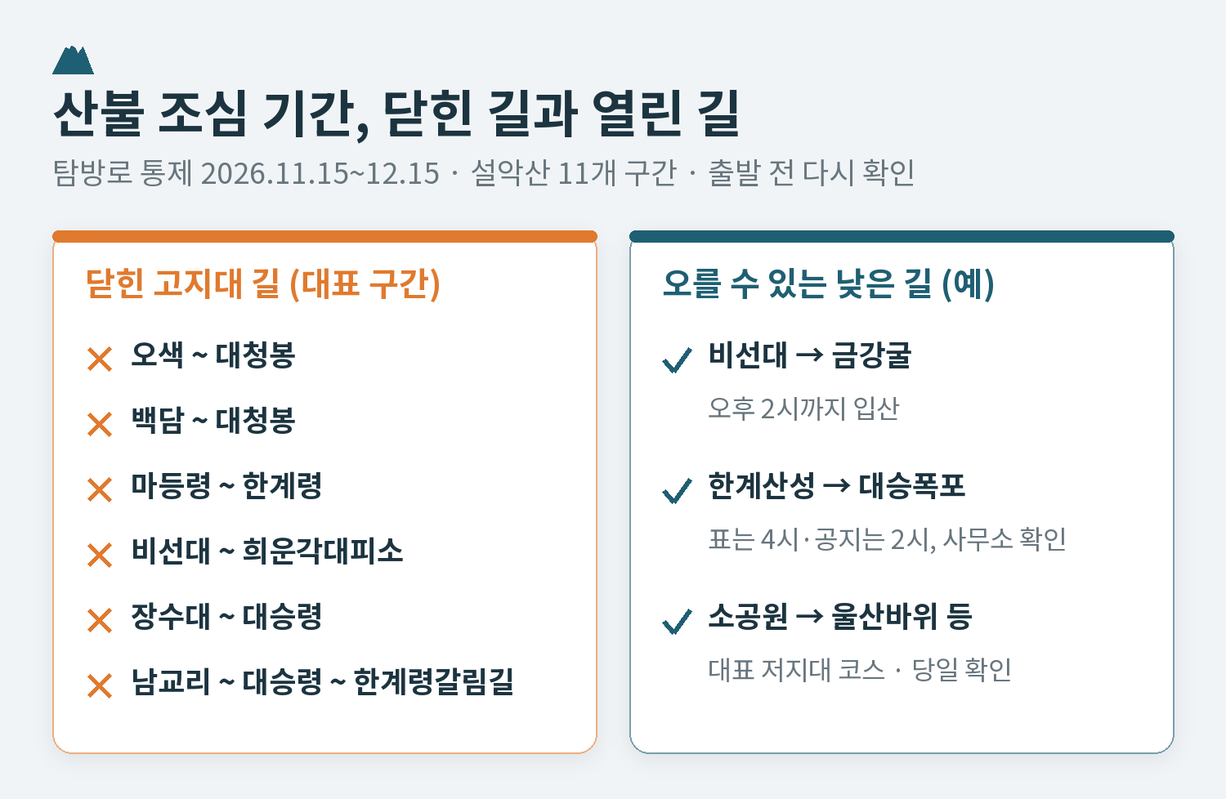
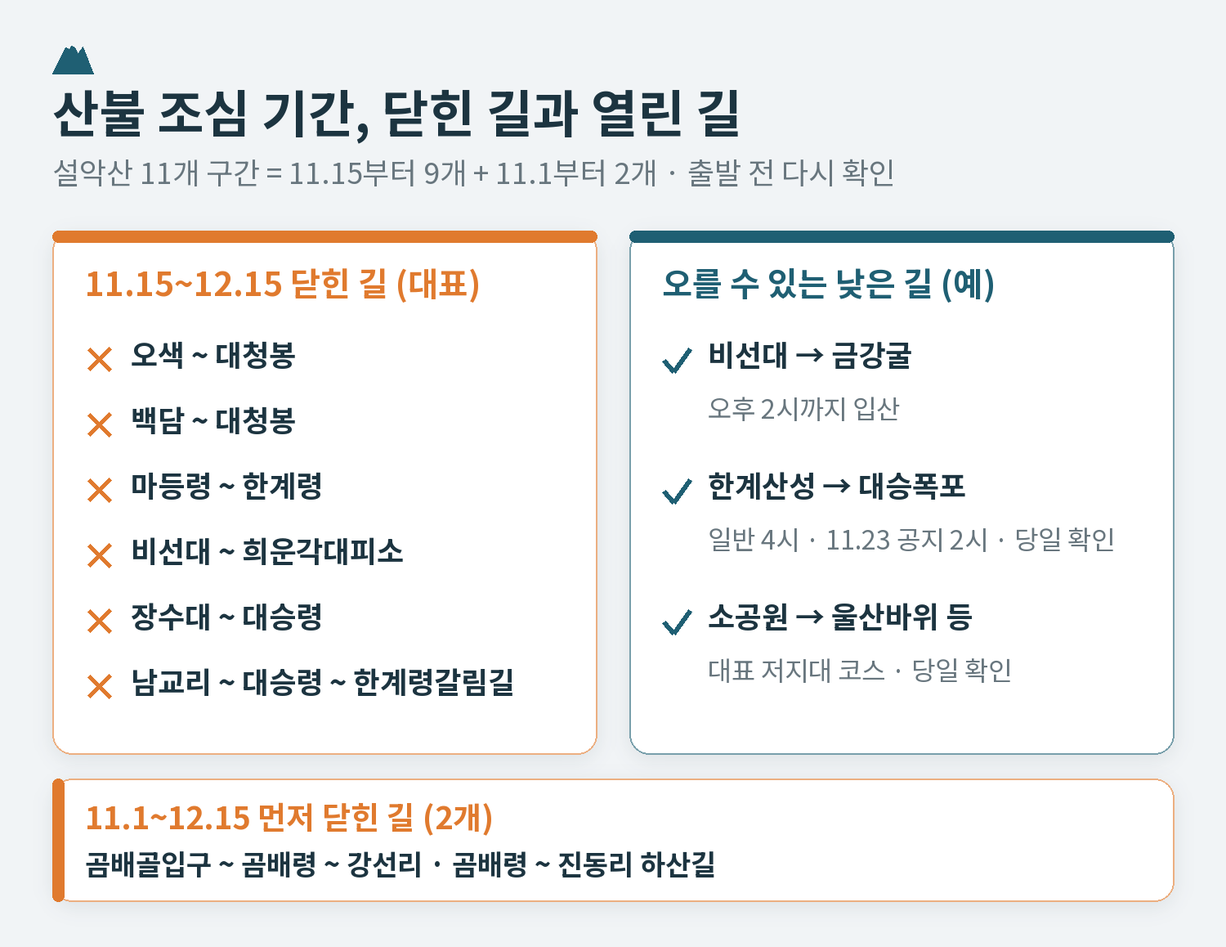
네이버 「라즈베리파이 사기 전에」 작성·이미지 적용, 겨울 설악산 2차 검수 반영

diff --git a/문서/네이버-코딩가이드/20261124_라즈베리파이-사기-전에/index.html b/문서/네이버-코딩가이드/20261124_라즈베리파이-사기-전에/index.html
@@ -1,0 +1,121 @@
+<meta charset="utf-8">
+<!--
+[발행 메모]
+블로그: 네이버 코딩가이드
+카테고리: 아두이노·라즈베리파이
+글 제목: 라즈베리파이 사기 전에, 어떤 모델에 무엇을 같이 살까?
+태그: #라즈베리파이 #라즈베리파이5 #라즈베리파이구매 #라즈베리파이전원 #라즈베리파이피코 #라즈베리파이제로 #microSD #코딩교육 #리눅스 #아두이노라즈베리파이
+검색 설명: 라즈베리파이는 모델마다 쓰임과 따로 사야 할 준비물이 다릅니다. 라즈베리파이 5·4·Zero 2 W·키보드형·피코의 차이, 메모리 고르는 법, 모델별 전원(27W·15W)·화면 케이블·microSD 용량을 공식 문서 기준으로 정리했습니다.
+글자 수: 본문 공백 포함 2,048자 / 공백 제외 1,612자 (빨간 글씨 이미지 표시·줄바꿈 제외, 2026.11.24)
+계기: 사용자가 '라즈베리파이'를 소재로 요청, 제안 A안. 11/23 「마이크로비트 사기 전에 알 7가지」와 짝이 되는 구매 전 안내 글.
+
+[이미지 순서]
+디자인: 아주 연한 라즈베리 분홍 바탕(#fbf1f4) · 짙은 자주(#7a1f45) 글자·강조 · 보조 잎 초록(#3d8a5a) · 흰 카드와 부드러운 그림자, 머리에 작은 라즈베리 열매 아이콘(점 묶음). 형식은 종류 지도(가로)·준비물 실사(3:2)·모델별 준비물 표(가로)·고르는 순서(세로 갈림길).
+- 01-타이틀.png (ChatGPT, 1080×1080) — 표지
+- 02-라즈베리파이-종류.png (AI, 가로) — 다섯 갈래 모델이 어떻게 다른지 한눈에
+- 03-같이-살-준비물.png (ChatGPT 실사 + 이름표, 3:2) — 보드 말고 따로 사야 하는 것이 어떻게 생겼는지
+- 04-모델별-준비물.png (AI, 가로 표) — 모델마다 전원·화면 케이블·저장 장치가 어떻게 다른지
+- 05-나에게-맞는-모델.png (AI, 세로) — 하고 싶은 일로 모델 고르기
+- 06-함께-보면-좋은-글.png (AI 배너, 1600×234) — 이 글 디자인에 맞춘 배너
+
+[근거] 2026.11.24 Raspberry Pi 공식 누리집에서 확인
+- 제품 목록 https://www.raspberrypi.com/products/ : Pi 5, Pi 500·500+(키보드형), Compute Module 5, Pico 2(RP2350 마이크로컨트롤러), Zero 2 W, Pi 4 Model B 등.
+- Pi 5 제품 페이지 https://www.raspberrypi.com/products/raspberry-pi-5/ : BCM2712 2.4GHz 4코어 Cortex-A76, 메모리 1·2·4·8·16GB, 듀얼 4Kp60 HDMI, 듀얼밴드 Wi-Fi, BT 5.0, USB 3.0 2개·2.0 2개, 기가비트 이더넷, PCIe 2.0 x1(별도 M.2 HAT 필요), 5V/5A USB-C PD, RTC, 전원 버튼, 2036년 1월까지 생산. FAQ: Pi 4 전원은 힘이 부족할 수 있어 5V 5A 권장, Pi 4 케이스에 맞지 않음, 능동 냉각을 쓰면 가장 좋은 성능, 운영체제는 Trixie(현재)·Bookworm(이전)만 지원.
+- Pi 4 제품 페이지: BCM2711 1.8GHz 4코어 Cortex-A72, 메모리 1·2·3·4·8GB, 2034년 1월까지 생산.
+- Zero 2 W 제품 페이지: 1GHz 4코어 Cortex-A53, 512MB, 2.4GHz Wi-Fi, BT 4.2, mini HDMI·micro USB OTG.
+- Pi 500 제품 페이지: 키보드 안에 Pi 5급 컴퓨터, 8GB, 32GB microSD 포함, micro HDMI 2개.
+- Getting started 문서 https://www.raspberrypi.com/documentation/computers/getting-started.html : 권장 전원 Pi 5·500 5V 5A(5V 3A면 주변기기 600mA로 제한) 27W USB-C, Pi 4·400 5V 3A 15W USB-C, Zero 5V 2.5A 12.5W micro USB. 화면 케이블 Pi 4B·400·5·500·500+ micro HDMI, Zero·Zero 2 mini HDMI. microSD 권장 용량 Raspberry Pi OS(데스크톱) 32GB 이상, Lite 8GB 이상, 2TB 미만. 키보드형·키트는 OS가 이미 설치됨. Zero는 micro USB OTG 어댑터와 전원 있는 USB 허브 권장. 케이스는 금속 위 단락 방지.
+- 가격은 판매처·환율에 따라 달라 쓰지 않음(공식 미국 가격도 메모리 값 변동으로 바뀌어 왔음). 메모리 고르는 기준(2GB 가벼운 실습, 4GB 이상 데스크톱 등)은 공식 권장이 없어 본문에 '일반적으로'로만 씀.
+-->
+
+<p style="font-size:16px;">라즈베리파이를 사려고 검색하면 이름이 여러 개 나옵니다.<br>5, 4, Zero, 500, 피코까지, 무엇을 골라야 할지부터 막힙니다.</p>
+
+<p style="font-size:16px;color:#e60000;font-weight:bold;">[[ 이미지: 라즈베리파이 사기 전에 (01-타이틀.png) ]]</p>
+
+<p>&nbsp;</p>
+<h3 style="font-size:18px;margin:24px 0 8px;color:#7a1f45;">▷ 한 줄로 말하면</h3>
+<p style="font-size:16px;">처음이라면 라즈베리파이 5와 전용 전원, microSD를 함께 사는 것이 가장 무난합니다.<br>다만 하고 싶은 일이 작고 가벼우면 Zero 2 W나 피코가 더 맞을 수 있습니다.</p>
+
+<p>&nbsp;</p>
+<hr style="border:none;border-top:1px solid #cfcfcf;margin:8px 0;">
+<h2 style="font-size:24px;margin:40px 0 12px;">라즈베리파이는 종류가 몇 개일까?</h2>
+<p style="font-size:16px;">공식 판매 목록을 보면 크게 다섯 갈래로 나눌 수 있습니다.</p>
+<ul style="font-size:16px;">
+<li>라즈베리파이 5: 지금의 대표 모델, 손바닥만 한 컴퓨터</li>
+<li>라즈베리파이 4: 한 세대 전 모델, 아직 판매 중</li>
+<li>Zero 2 W: 껌 한 통 크기의 작은 컴퓨터</li>
+<li>500·500+: 키보드 안에 컴퓨터가 들어 있는 형태</li>
+<li>피코(Pico): 컴퓨터가 아니라 아두이노 같은 마이크로컨트롤러</li>
+</ul>
+
+<p style="font-size:16px;color:#e60000;font-weight:bold;">[[ 이미지: 라즈베리파이 종류 (02-라즈베리파이-종류.png) ]]</p>
+
+<p style="font-size:16px;">여기서 가장 헷갈리는 것이 피코입니다.<br>이름에 '라즈베리파이'가 붙지만 운영체제를 깔아 쓰는 컴퓨터가 아닙니다.</p>
+<p style="font-size:16px;">LED나 센서를 다루는 작은 두뇌라, 화면을 연결해 인터넷을 하려는 사람에게는 맞지 않습니다.</p>
+
+<p>&nbsp;</p>
+<hr style="border:none;border-top:1px solid #cfcfcf;margin:8px 0;">
+<h2 style="font-size:24px;margin:40px 0 12px;">라즈베리파이 5와 4, 무엇이 다를까?</h2>
+<p style="font-size:16px;">공식 안내로는 라즈베리파이 5가 이전 세대보다 2~3배 빠릅니다.<br>화면 두 대를 4K로 연결할 수 있고, 전원 버튼과 시계(RTC)도 생겼습니다.</p>
+<p style="font-size:16px;">따로 파는 확장 보드를 달면 SSD를 연결해 더 빠르게 쓸 수도 있습니다.<br>라즈베리파이 4는 그보다 느리지만 권장 전원이 더 작고(15W), 오래 팔려 온 만큼 참고할 자료가 많은 편입니다.</p>
+
+<p>&nbsp;</p>
+<h3 style="font-size:18px;margin:24px 0 8px;">▷ 메모리는 몇 GB로 살까?</h3>
+<p style="font-size:16px;">라즈베리파이 5는 1GB부터 16GB까지 다섯 가지가 있습니다.<br>공식 권장 기준은 따로 없습니다.</p>
+<p style="font-size:16px;">일반적으로 코딩 실습이나 센서 연결처럼 가벼운 일은 2GB 안팎으로도 충분하다고 알려져 있습니다.<br>화면을 띄워 웹 브라우저를 여러 개 쓰려면 4GB 이상을 고르는 경우가 많습니다.</p>
+
+<p>&nbsp;</p>
+<hr style="border:none;border-top:1px solid #cfcfcf;margin:8px 0;">
+<h2 style="font-size:24px;margin:40px 0 12px;">보드만 사면 켜질까?</h2>
+<p style="font-size:16px;">보드만으로는 켜지지 않습니다.<br>키보드형이나 키트가 아니라면 아래 준비물이 따로 필요합니다.</p>
+
+<p style="font-size:16px;color:#e60000;font-weight:bold;">[[ 이미지: 같이 살 준비물 (03-같이-살-준비물.png) ]]</p>
+
+<p>&nbsp;</p>
+<h3 style="font-size:18px;margin:24px 0 8px;">▷ 전원 어댑터</h3>
+<p style="font-size:16px;">공식 문서는 라즈베리파이 5에 5V 5A, 27W USB-C 전원을 권합니다.<br>5V 3A 전원을 쓰면 USB 주변기기에 줄 수 있는 전기가 600mA로 제한됩니다.</p>
+<p style="font-size:16px;">라즈베리파이 4는 5V 3A(15W) USB-C 전원이 권장됩니다.<br>휴대폰 충전기는 출력이 맞지 않으면 전원이 모자랄 수 있으니 숫자를 꼭 확인하세요.</p>
+
+<p>&nbsp;</p>
+<h3 style="font-size:18px;margin:24px 0 8px;">▷ microSD 카드</h3>
+<p style="font-size:16px;">운영체제가 들어갈 저장 장치입니다.<br>화면이 있는 Raspberry Pi OS는 32GB 이상, 화면 없는 Lite 버전은 8GB 이상이 권장됩니다.</p>
+<p style="font-size:16px;">컴퓨터에 운영체제를 구워 넣으려면 SD 카드 리더기도 있어야 합니다.</p>
+
+<p>&nbsp;</p>
+<h3 style="font-size:18px;margin:24px 0 8px;">▷ 화면 케이블과 키보드·마우스</h3>
+<p style="font-size:16px;">라즈베리파이 5·4는 작은 micro HDMI 단자를 씁니다.<br>Zero 2 W는 그보다 조금 큰 mini HDMI라, 일반 HDMI 케이블은 바로 꽂히지 않습니다.</p>
+
+<p>&nbsp;</p>
+<h3 style="font-size:18px;margin:24px 0 8px;">▷ 케이스와 쿨러</h3>
+<p style="font-size:16px;">공식 안내로는 라즈베리파이 5는 팬으로 식혀 줄 때 가장 좋은 성능을 냅니다.<br>팬이 들어 있는 공식 케이스나 액티브 쿨러가 있고, 라즈베리파이 4용 케이스에는 맞지 않습니다.</p>
+<p style="font-size:16px;">케이스는 금속 위에 올려 두었을 때 생기는 합선도 막아 줍니다.</p>
+
+<p style="font-size:16px;color:#e60000;font-weight:bold;">[[ 이미지: 모델별 준비물 (04-모델별-준비물.png) ]]</p>
+
+<p>&nbsp;</p>
+<hr style="border:none;border-top:1px solid #cfcfcf;margin:8px 0;">
+<h2 style="font-size:24px;margin:40px 0 12px;">하고 싶은 일로 고르면</h2>
+<p style="font-size:16px;color:#e60000;font-weight:bold;">[[ 이미지: 나에게 맞는 모델 (05-나에게-맞는-모델.png) ]]</p>
+<ul style="font-size:16px;">
+<li>작은 컴퓨터로 코딩·리눅스를 배우고 싶다 → 라즈베리파이 5</li>
+<li>책상에 바로 두고 쓰고 싶다 → 키보드형 500(운영체제 설치된 microSD 포함)</li>
+<li>작게 숨겨 두고 한 가지 일만 시키고 싶다 → Zero 2 W</li>
+<li>LED·센서만 다루고 싶다 → 피코(컴퓨터가 아님)</li>
+</ul>
+
+<p>&nbsp;</p>
+<hr style="border:none;border-top:1px solid #cfcfcf;margin:8px 0;">
+<h2 style="font-size:24px;margin:40px 0 12px;">장바구니에 담기 전, 상품 설명에서 볼 네 줄</h2>
+<ul style="font-size:16px;">
+<li>모델 이름과 메모리 용량(예: 5 · 4GB)</li>
+<li>전원 어댑터가 들어 있는지, 들어 있다면 5V 몇 A인지</li>
+<li>microSD에 운영체제가 미리 깔려 있는지</li>
+<li>화면 케이블이 micro HDMI인지 mini HDMI인지</li>
+</ul>
+<p style="font-size:16px;">가격은 판매처와 환율에 따라 크게 달라집니다.<br>같은 모델이라도 '보드만'인지 '키트'인지부터 비교하면 헷갈리지 않습니다.</p>
+
+<p style="font-size:16px;color:#e60000;font-weight:bold;">[[ 이미지: 함께 보면 좋은 글 (06-함께-보면-좋은-글.png) ]]</p>
+<p style="font-size:16px;">아두이노·라즈베리파이·마이크로비트, 처음엔 무엇으로? (네이버 코딩가이드 · 아두이노·라즈베리파이 · 2026.11.23 작성 · 링크 자리)</p>
+<p style="font-size:16px;">마이크로비트 사기 전에 알 7가지, 몇 살부터·무엇을 살까? (네이버 코딩가이드 · 아두이노·라즈베리파이 · 2026.11.23 작성 · 링크 자리)</p>
+
+<p style="font-size:14px;color:#777;">모델과 사양은 2026년 11월 Raspberry Pi 공식 누리집 기준입니다.</p>

diff --git a/문서/네이버-코딩가이드/20261124_겨울-설악산-등산/index.html b/문서/네이버-코딩가이드/20261124_겨울-설악산-등산/index.html
@@ -5,8 +5,8 @@
 카테고리: 여행·취미·문화
 글 제목: 겨울 설악산 등산, 통제 구간과 꼭 챙길 장비
 태그: #설악산 #겨울설악산 #설악산등산 #설악산통제 #입산시간지정제 #겨울산행 #아이젠 #울산바위 #대청봉 #국립공원
-검색 설명: 겨울 설악산은 가을철 산불 조심 기간(2026년은 11월 15일~12월 15일)에 고지대 탐방로가 통제되고, 동절기에는 탐방로마다 입산 마감 시간이 앞당겨집니다. 통제 기간에도 갈 수 있는 곳, 동절기 입산 시간표, 눈 오는 날의 통제 규칙, 꼭 챙길 겨울 장비를 정리했습니다.
-글자 수: 본문 공백 포함 2,718자 / 공백 제외 2,123자 (빨간 글씨 이미지 표시·줄바꿈 제외, 2026.11.24)
+검색 설명: 겨울 설악산은 가을철 산불조심기간(2026년 11월 1일~12월 15일)에 일부 고지대 탐방로가 통제되고, 동절기에는 탐방로마다 입산 마감 시간이 앞당겨집니다. 통제 기간에도 갈 수 있는 곳, 동절기 입산 시간표, 눈 오는 날의 통제 규칙, 꼭 챙길 겨울 장비를 정리했습니다.
+글자 수: 본문 공백 포함 2,849자 / 공백 제외 2,229자 (빨간 글씨 이미지 표시·줄바꿈 제외, 2026.11.24)
 계기: 2026.11.24 구글 인기 검색어 '설악산'(2만+), 영하권 추위 예보, 외국인 K-트레킹 신청이 북한산·설악산에 몰렸다는 보도. 네이버 추천 주제 4번(사용자 선택).
 추천 발행 시기: 바로(고지대 통제는 12월 15일까지, 그 뒤에는 눈·결빙이 변수).
 
@@ -46,15 +46,16 @@
 <hr style="border:none;border-top:1px solid #cfcfcf;margin:8px 0;">
 <h2 style="font-size:24px;margin:40px 0 12px;">늦가을부터 한 달, 고지대 길이 닫힌다</h2>
 <p style="font-size:16px;">국립공원공단은 2026년 11월 1일부터 12월 15일까지를 가을철 산불조심기간으로 운영합니다.<br>이 기간 중 산불 위험이 높은 일부 탐방로는 11월 15일부터 12월 15일까지 출입을 통제하며, 전국 148개 구간이 대상입니다.</p>
-<p style="font-size:16px;">설악산은 11개 구간이 여기에 들어갑니다.<br>대청봉으로 오르는 길과 공룡능선 쪽 길처럼 높은 곳으로 이어지는 길이 대부분입니다.</p>
+<p style="font-size:16px;">설악산은 11개 구간이 통제됩니다. 9개는 11월 15일부터, 곰배령 쪽 2개는 11월 1일부터입니다.<br>대청봉으로 오르는 길과 공룡능선 쪽 길처럼 높은 곳으로 이어지는 길이 대부분입니다.</p>
 <ul style="font-size:16px;">
 <li>오색 ~ 대청봉, 백담 ~ 대청봉</li>
 <li>마등령 ~ 한계령, 비선대 ~ 희운각대피소</li>
 <li>장수대 ~ 대승령, 남교리 ~ 대승령 ~ 한계령갈림길 등</li>
 </ul>
 <p style="font-size:16px;">위 목록은 대표적인 통제 구간입니다.<br>곰배령 쪽 길처럼 11월 1일부터 먼저 닫힌 구간도 있으니, 전체 통제 구간과 세부 경계는 국립공원공단 공고에서 확인해야 합니다.</p>
-<p style="font-size:16px;">낮은 곳의 길은 열려 있는 곳이 많습니다.<br>입산시간지정제로는 비선대 → 금강굴은 오후 2시, 한계산성분소 → 대승폭포는 오후 4시까지 입산할 수 있습니다.</p>
-<p style="font-size:16px;">다만 11월 23일 통제정보 공지에는 금강굴과 대승폭포를 모두 오후 2시까지로 적고 있어, 대승폭포 쪽은 출발 전 설악산국립공원사무소에 확인하는 편이 안전합니다. 기상특보나 현장 상황에 따라 통제될 수도 있습니다.</p>
+<p style="font-size:16px;">낮은 곳의 길은 열려 있는 곳이 많습니다.<br>입산시간지정제로는 비선대 → 금강굴은 오후 2시까지 입산할 수 있습니다.</p>
+<p style="font-size:16px;">입산시간지정제의 일반 시간표에는 한계산성분소에서 대승폭포로 가는 길의 입산 마감이 오후 4시로 표시되어 있습니다.<br>다만 11월 23일 설악산 통제정보에는 금강굴과 대승폭포 모두 오후 2시까지로 안내되어 있습니다.</p>
+<p style="font-size:16px;">실제 산행 당일에는 그날의 최신 통제정보가 우선이고, 공지에 따라 시간이 달라질 수 있습니다.<br>대승폭포를 방문한다면 출발 전에 설악산국립공원사무소에 확인하세요.</p>
 <p style="font-size:16px;">소공원에서 울산바위로 가는 길은 산불 통제기간에도 개방되는 대표적인 저지대 코스로 알려져 있습니다.<br>다만 폭설이나 결빙 등 기상 상황에 따라 따로 통제될 수 있으니, 출발 당일 통제정보를 확인하세요.</p>
 
 <p style="font-size:16px;color:#e60000;font-weight:bold;">[[ 이미지: 지금 갈 수 있는 곳 (02-지금-갈-수-있는-곳.png) ]]</p>
@@ -75,7 +76,7 @@
 <li>비선대 → 양폭: 낮 12시까지</li>
 <li>백담 → 소청·오세암: 오후 1시까지</li>
 <li>비선대 → 금강굴: 오후 2시까지</li>
-<li>한계산성분소 → 대승폭포: 오후 4시까지(입산시간지정제 표 기준)</li>
+<li>한계산성분소 → 대승폭포: 오후 4시까지(일반 시간표 기준. 11월 23일 통제정보에는 오후 2시로 안내, 당일 공지 확인)</li>
 </ul>
 <p style="font-size:16px;">입산 마감은 그 길에 들어갈 수 있는 마지막 시간입니다.<br>그 시간까지 정상에 닿으면 된다는 뜻이 아닙니다.</p>
 

diff --git a/AGENTS.md b/AGENTS.md
@@ -238,12 +238,18 @@
 - 히스토리 가이드 후보(2026-11-15 제안, 4번 수능의 역사는 작성함): 한지 유네스코 등재(최종 결정 11.30~12.5 정부간위원회) / 김장 문화의 역사(김장철) / 단종과 영월 청령포('왕과 사는 남자' 흥행) / 순국선열의 날.
 
 ## 진행 상황 (2026-11-24 기준)
+- 2026-11-24: `문서/네이버-코딩가이드/20261124_라즈베리파이-사기-전에/index.html` 작성("라즈베리파이 사기 전에, 어떤 모델에 무엇을 같이 살까?", 카테고리 아두이노·라즈베리파이, 공백 포함 2,048자). 사용자가 '라즈베리파이' 소재로 요청, 제안 A안. 11/23 마이크로비트 사기 전에 글과 짝.
+  - 근거: **Raspberry Pi 공식 누리집**(제품 목록, Pi 5·Pi 4·Zero 2 W·Pi 500 제품 페이지, Getting started 문서)을 내장 브라우저로 직접 확인 — Pi 5 메모리 1·2·4·8·16GB, 5V/5A USB-C PD(5V 3A면 주변기기 600mA 제한), 능동 냉각 때 최고 성능, Pi 4 케이스 안 맞음, OS는 Trixie·Bookworm만, 2036년까지 생산 / Pi 4 1·2·3·4·8GB, 5V 3A 15W / Zero 2 W 512MB·2.4GHz Wi-Fi·mini HDMI·micro USB / Pi 500 8GB·32GB microSD 포함 / microSD 데스크톱 OS 32GB·Lite 8GB 이상, 2TB 미만 / Pi 4B·5·500은 micro HDMI. **제품 페이지는 fetch로 받아 DOMParser로 본문을 읽을 수 있다.** 가격은 판매처·환율에 따라 달라 쓰지 않음. 메모리 고르는 기준은 공식 권장이 없어 '일반적으로·알려져 있다'로.
+  - 구성: 이름이 여러 개 → 타이틀 → h3 한 줄로 말하면(자주) → 종류는 몇 개(다섯 갈래, 피코는 컴퓨터 아님) → 5와 4 차이(h3 메모리 몇 GB) → 보드만 사면 켜질까(h3 전원·microSD·화면 케이블·케이스와 쿨러) → 하고 싶은 일로 고르면 → '장바구니에 담기 전, 상품 설명에서 볼 네 줄'. h3 기호 ▷.
+  - 이미지 6장: AI 02 다섯 갈래(가로 다섯 칸, 컴퓨터/마이크로컨트롤러 배지)·04 모델별 따로 살 것(가로 표: 전원·화면 케이블·microSD·Wi-Fi — 처음 넣은 '냉각' 줄은 Pi 4·Zero 값이 공식 근거가 없어 Wi-Fi로 바꿈)·05 하고 싶은 일로 고르기(세로 카드)·06 이 글 배너(흰 원 안 라즈베리 열매) — 연한 라즈베리 분홍·짙은 자주·잎 초록, 머리에 라즈베리 아이콘, 스크립트 scratchpad/tgs/rpi.py. 링크는 세 보드 비교 글·마이크로비트 사기 전에 글(둘 다 네이버 · 아두이노·라즈베리파이 · 11.23). ChatGPT 01 타이틀('라즈베리파이 / 사기 전에 볼 것')·03 같이 살 준비물 플랫레이 + 이름표(3:2) 요청 중.
+  - ChatGPT 이미지 2장 적용(원본 scratchpad/backup/rpi-01·03-original.png): 01 타이틀(라즈베리 열매·택배 상자·USB-C 어댑터·microSD·HDMI 케이블·초록 보드, 로고 없음, 글자 정확, 노란 둘째 줄 약 90%라 94%로 줄여 흐린 원본 위에 40px로 섞음)·03 준비물(이름표 6개 정확, 보드에 찍힌 'HDMI' 글자는 주변 초록으로 덮음, 1536×1024 → 1620×1080). 03의 보드 단자 모양은 전원 micro USB·풀사이즈 HDMI 하나로 그려져 실제 라즈베리파이 5(USB-C 전원·micro HDMI 두 개)와 다르다 — 생김새 예시 그림이라 그대로 두되 사용자에게 알림. 이미지 6장 완료, 대기 중인 요청 없음.
 - 2026-11-24: `문서/네이버-코딩가이드/20261124_겨울-설악산-등산/index.html` 작성("겨울 설악산 등산, 통제 구간과 꼭 챙길 장비", 카테고리 여행·취미·문화, 공백 포함 1,934자). 구글 인기 검색어 '설악산' 기준 추천 4번. 바로 발행 권장(고지대 통제 12월 15일까지).
   - 근거: **국립공원공단 누리집 '입산시간지정제' 설악산 표**(knps.or.kr/portal/main/contents.do?menuNo=8000198, 표 caption으로 공원별 표를 찾아 읽음 — 동절기 11~3월 04시 입산, 비선대→마등령·한계령→한계령삼거리 10시, 오색→대청봉 11시, 비선대→양폭 12시, 백담→소청·오세암 13시, 비선대→금강굴 14시, 소공원 낮은 길은 일몰 후~일출 2시간 전 제한, 대피소 예약자 1~2시간 연장, 동절기 대피소 입실 15~18시)와 **'통제정보' 설악산 상세**(acsCtrDtl.do?rstId=0008, 11.23 21시 기준: 고지대 통제, 금강굴·대승폭포 14시까지). 산불 통제 11.15~12.15 전국 148개·설악산 11개 구간(강원일보 11.6, 국립공원공단 발표), 겨울철 자연재난 대책기간 11.15~3.15(더팩트 11.15). 표의 '한계산성→대승폭포 16시'와 통제정보의 '대승폭포 14시'가 달라 그림 04에서 대승폭포 줄은 뺌. 과태료 금액은 보도로만 확인돼 쓰지 않음.
   - 구성: 길이 막히거나 입산이 일찍 마감 → 타이틀 → h3 한 줄로 말하면(청록) → 늦가을부터 한 달 고지대 길이 닫힌다(11개 구간, 낮은 길·그날 통제정보) → 몇 시까지 들어가야 할까(입산시간지정제, h3 대피소에서 하룻밤) → 겨울 산에 꼭 챙길 것(아이젠·스패츠 등, h3 산에서 눈을 만나면?) → '떠나기 전날 밤, 휴대폰으로 확인할 것'. h3 기호 ▶.
   - 이미지 7장: AI 02 닫힌 길과 열린 길(가로 두 칸)·04 동절기 입산 시간(세로 시간 막대)·06 눈 오는 날(가로 네 칸 흐름)·07 이 글 배너(청록 원 안 흰 산) — 눈빛 회색 바탕·짙은 청록·주황, 머리에 산 아이콘, 스크립트 scratchpad/tgs/seorak.py. 03 울산바위는 위키미디어 CC0 사진(여름, 3:2로 자름). 겨울 설악산 CC0 사진은 찾지 못함. 링크는 민둥산 억새 산행(네이버 · 여행·취미·문화 · 11.14). ChatGPT 01 타이틀('겨울 설악산 / 통제·장비 확인')·05 겨울 산행 장비 플랫레이(3:2) 요청 중.
   - ChatGPT 이미지 2장 적용(글자 정확, 로고·상표 없음, 크기만 맞춤, 원본 scratchpad/backup/seorak-01·05-original.png): 01 타이틀(눈 덮인 바위 능선·눈길 난간·글자 없는 나무 표지판, 노란 둘째 줄 약 85%로 허용 끝이라 그대로)·05 장비 플랫레이(스틱·체인 아이젠·스패츠·보온병·장갑 두 켤레·헤드랜턴·보조 배터리·에너지바·플리스, 1620×1080). 이미지 7장 완료, 대기 중인 요청 없음. 남은 일은 사용자의 네이버 발행(링크 줄 교체)뿐이다.
   - 같은 날 외부 검수 반영(공백 포함 2,718자): 가을철 산불조심기간(11.1~12.15)과 탐방로 통제(11.15~12.15) 구분, 대표 통제 구간을 검수가 준 공식 목록대로(대승폭포~대승령 → 장수대~대승령) 고치고 '대표 구간·곰배령은 11.1부터·전체는 공고 확인' 추가, 울산바위는 '대표 저지대 코스로 알려져 있음·기상 따라 통제 가능', 울산바위 사진 아래 '여름 사진' 설명, 입산 마감 = 들어갈 수 있는 마지막 시간(정상 도착 시각 아님), 일몰 기준 문장 명확히, 대피소 예약자 연장은 '일부 탐방로·공단 안내 확인', 아이젠을 신어도 낙상 위험 남음·방풍 겉옷·모자 추가, 대설은 '통제될 수 있음·일부 저지대만 열릴 수 있음', 폭설 땐 하산 길 확보·대피소는 위치와 접근 가능 여부를 따지기·위험하면 119·사무소. **대승폭포 마감은 검수가 '통제정보 기준 오후 4시'로 쓰라고 했지만 11.23 통제정보 공지 원문은 금강굴·대승폭포 모두 14시라, 입산시간지정제 표(16시)와 공지(14시)를 둘 다 밝히고 사무소 확인을 권함.** 그림 02(장수대~대승령, 대승폭포 표 4시·공지 2시)·04(대승폭포 16시 줄 다시 넣고 '입산 마감 = 마지막 시간')·06('통제될 수 있음', 하산 길 확보, 119·사무소) 고침. **산행 안전 글 기준**: 기간이 둘인 제도(산불조심기간·탐방로 통제)는 나눠 쓴다. 같은 기관의 두 안내가 다르면 한쪽으로 단정하지 말고 둘 다 밝히고 문의처를 붙인다. '대피소로 가라'처럼 상황을 따지지 않는 행동 지시는 조건을 붙인다. 장비를 갖춰도 위험이 남는다고 쓴다.
+  - 같은 날 두 번째 검수 반영(공백 포함 2,849자): 검색 설명을 '산불조심기간 11.1~12.15에 일부 고지대 통제'로, 대승폭포는 '일반 시간표 16시 / 11월 23일 통제정보 14시 / 당일 최신 통제정보가 우선'으로 나눠 쓰고(11.23 공지를 계속 유효한 것처럼 쓰지 않음), 입산 시간 목록의 대승폭포 줄에도 같은 단서, 설악산 11개 구간 = 11.15부터 9개 + 11.1부터 2개(곰배령)로 본문에 밝힘. 그림 02(아래에 '11.1~12.15 먼저 닫힌 길 2개' 띠, 부제 9개+2개)·04(대승폭포 16시*, 아래 주의 상자: 일반 16시·11.23 공지 14시·당일 확인 필수) 고침. **기준**: 일반 규정과 특정 날짜 공지는 하나로 합치지 말고 날짜를 붙여 나누며, '당일 최신 공지가 우선'을 쓴다. 숫자(11개)와 그림 속 항목 수·기간이 맞는지 대조한다.
 - 2026-11-24: `문서/네이버-코딩가이드/20261124_국가장학금-5구간/index.html` 작성("국가장학금 1차 신청, 5구간 개편으로 얼마 받을까?", 카테고리 수능·모의고사, 공백 포함 1,807자). 다음 실시간 트렌드 '국가장학금' 기준 추천 1번. 바로 발행 권장(신청 2026.11.24~2027.1.7 18시).
   - 근거: **교육부 보도자료(2026.11.23 배포) 원문 hwpx를 받아 글자를 뽑아 읽음**(moe.go.kr 보도자료 목록 → 첨부 fileDown.do, hwpx는 zip 안 Contents/section*.xml의 hp:t를 이으면 읽힘). 기간·대상·구간 대응(1~3→가, 4~6→나, 7~8→다, 9→라, 10→마)·연간 지원 단가(Ⅰ유형 600/440/360/100, 마 미지원, 다자녀 첫째·둘째 610/505/465/135)·지방 국립대 전액 장학금은 국가장학금 신청으로만·재학생 1차 원칙·신입생은 합격 전 신청 가능. 셋째 이상 표의 200만 원 칸은 셀 병합 때문에 구간을 확정하지 못해 숫자로 쓰지 않고, '가·나구간까지 등록금 전액'은 보도 기준('보도에 따르면'). 가구원 동의·성적 기준·2차 신청 횟수 제한은 일반 지식이라 '알려져 있습니다'·'재단 안내 확인'으로. '예전 9구간은 지원 못 받았다'는 확인하지 못해 쓰지 않고 교육부 표현('라구간 학생까지 지원')대로 씀.
   - 구성: 신청 시작 → 타이틀 → h3 한 줄로 말하면(초록) → 10구간이 5구간으로 → 구간마다 1년에 얼마(h3 이 금액을 그대로 받을까?) → 예비 신입생 지금 신청할까(지방 국립대 전액 장학금, h3 재학생은 1차가 원칙) → 신청 버튼 뒤에 할 일(가구원 동의, 가구원 동의 현황·학자금 지원구간 확인 메뉴, 국가근로장학금) → '1월 7일 오후 6시, 달력에 적어 둘 것'. h3 기호 ◐.

diff --git a/작성히스토리.md b/작성히스토리.md
@@ -7,7 +7,7 @@
 - **분류**는 지금 블로그에 있는 이름으로 맞췄다(작성 당시 발행 메모의 옛 이름과 다를 수 있다).
 - **날짜**는 글을 작성한 날(폴더 이름 기준)이다. 실제 발행일과 다를 수 있다.
 - **폴더**는 작성 당시 저장소 경로다. 같은 날 글이 여러 편이면 나중에 `yyyymmdd_NN개` 폴더로 옮겨진다.
-- 2026-11-23 기준 130편(네이버 101 · 티스토리 코딩 6 · 이코노미 12 · 히스토리 11).
+- 2026-11-23 기준 131편(네이버 102 · 티스토리 코딩 6 · 이코노미 12 · 히스토리 11).
 
 ## 주제별 찾아보기
 
@@ -184,6 +184,8 @@
     - 마이크로비트·아두이노·라즈베리파이의 차이(작은 두뇌 vs 작은 컴퓨터), 시작할 때 필요한 것, 하고 싶은 것으로 고르는 법 · `아두이노, 라즈베리파이, 마이크로비트, 코딩 교육, 라즈베리파이 피코`
   - 2026.11.23 **아두이노 키트 고르는 법, 처음엔 무엇을 살까?**
     - 아두이노를 처음 살 때 보드(우노 R3·R4)·정품과 호환 보드(CH340)·USB 단자·키트 세 종류·스타터 키트 필수 부품 고르는 법 · `아두이노 키트, 아두이노 우노, 호환 보드, CH340, 스타터 키트`
+  - 2026.11.24 **라즈베리파이 사기 전에, 어떤 모델에 무엇을 같이 살까?**
+    - 라즈베리파이 구매 전 확인할 것: 다섯 갈래 모델(5·4·Zero 2 W·키보드형·피코) 차이, 메모리 고르기, 모델별 전원(27W·15W)·화면 케이블·microSD 용량 · `라즈베리파이, 라즈베리파이 5, 구매 가이드, 전원 어댑터, 피코, Zero 2 W`
 - **파이썬 코딩**
   - 2026.11.19 **[업무 파이썬 초급 #0] 파이썬 설치하고 첫 글자 띄우기**
     - [연재 0편] 직장인용 파이썬 설치와 IDLE에서 첫 실행 · `파이썬 설치, IDLE, 직장인 파이썬, print, 업무 자동화`
@@ -1289,6 +1291,15 @@
 - 검색 설명(발행 메모): 독감이 유행하는 지금, 예방주사를 맞아도 늦지 않았을까요? 접종 뒤 효과가 생기는 시기, 2026~2027절기 무료 접종 대상(생후 6개월~14세, 임신부, 65세 이상)과 기간, 백신 있는 병원 찾는 법, 독감과 감기 구별법을 정리했습니다.
 - 태그: #독감예방접종 #독감주사 #인플루엔자 #독감무료접종 #예방접종도우미 #독감유행 #독감증상 #어린이독감 #임신부독감 #생활정보
 - 폴더: `문서/네이버-코딩가이드/20261124_독감-예방접종`
+- 발행 주소: (모름)
+
+#### 2026.11.24 · 라즈베리파이 사기 전에, 어떤 모델에 무엇을 같이 살까?
+- 분류: 아두이노·라즈베리파이
+- 요약: 라즈베리파이 구매 전 확인할 것: 다섯 갈래 모델(5·4·Zero 2 W·키보드형·피코) 차이, 메모리 고르기, 모델별 전원(27W·15W)·화면 케이블·microSD 용량
+- 키워드: 라즈베리파이, 라즈베리파이 5, 구매 가이드, 전원 어댑터, 피코, Zero 2 W
+- 검색 설명(발행 메모): 라즈베리파이는 모델마다 쓰임과 따로 사야 할 준비물이 다릅니다. 라즈베리파이 5·4·Zero 2 W·키보드형·피코의 차이, 메모리 고르는 법, 모델별 전원(27W·15W)·화면 케이블·microSD 용량을 공식 문서 기준으로 정리했습니다.
+- 태그: #라즈베리파이 #라즈베리파이5 #라즈베리파이구매 #라즈베리파이전원 #라즈베리파이피코 #라즈베리파이제로 #microSD #코딩교육 #리눅스 #아두이노라즈베리파이
+- 폴더: `문서/네이버-코딩가이드/20261124_라즈베리파이-사기-전에`
 - 발행 주소: (모름)
 
 #### 2026.11.24 · 방공식별구역(KADIZ)이란? 영공과 무엇이 다를까
